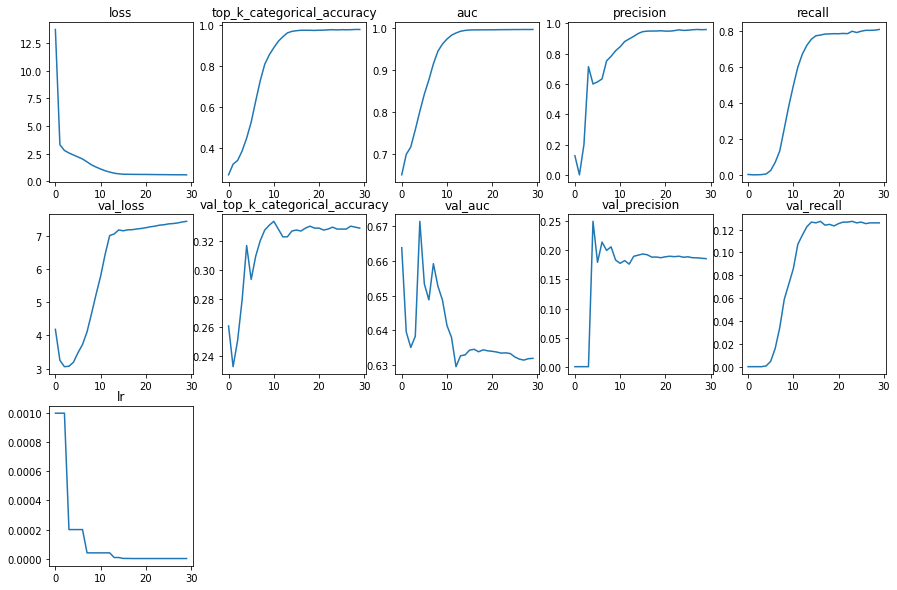
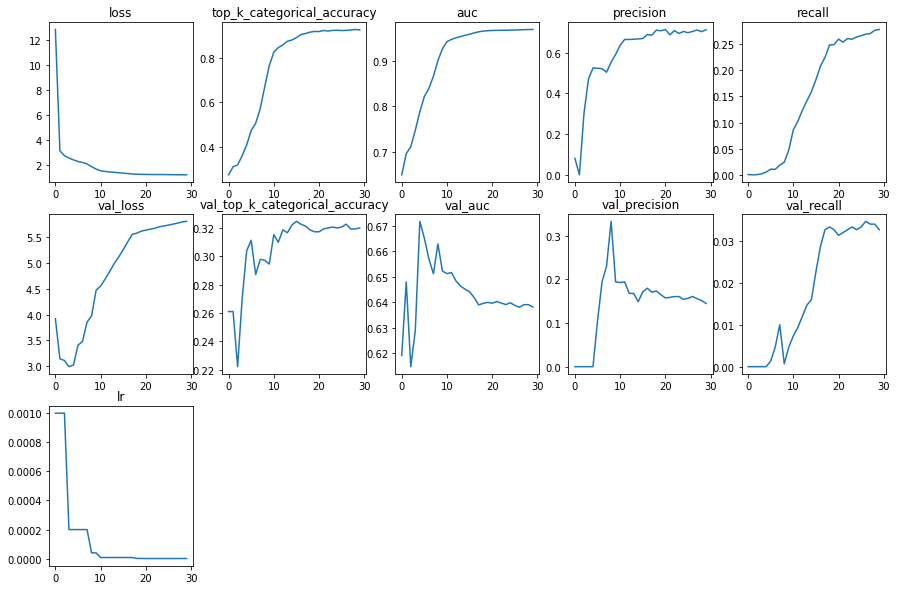
small corrections from previous commit with respect to auto-gen files

diff --git a/examples/audio/md/eeg_signal.md b/examples/audio/md/eeg_signal.md
@@ -54,11 +54,11 @@ First, lets install our dependencies:
 <div class="k-default-codeblock">
 ```
 Requirement already satisfied: gdown in /home/suvaditya/Programming/personal/oss/oss-ml/lib/python3.8/site-packages (4.5.3)
+Requirement already satisfied: tqdm in /home/suvaditya/Programming/personal/oss/oss-ml/lib/python3.8/site-packages (from gdown) (4.64.0)
+Requirement already satisfied: beautifulsoup4 in /home/suvaditya/Programming/personal/oss/oss-ml/lib/python3.8/site-packages (from gdown) (4.11.1)
 Requirement already satisfied: six in /home/suvaditya/Programming/personal/oss/oss-ml/lib/python3.8/site-packages (from gdown) (1.16.0)
 Requirement already satisfied: filelock in /home/suvaditya/Programming/personal/oss/oss-ml/lib/python3.8/site-packages (from gdown) (3.8.0)
-Requirement already satisfied: beautifulsoup4 in /home/suvaditya/Programming/personal/oss/oss-ml/lib/python3.8/site-packages (from gdown) (4.11.1)
 Requirement already satisfied: requests[socks] in /home/suvaditya/Programming/personal/oss/oss-ml/lib/python3.8/site-packages (from gdown) (2.27.1)
-Requirement already satisfied: tqdm in /home/suvaditya/Programming/personal/oss/oss-ml/lib/python3.8/site-packages (from gdown) (4.64.0)
 Requirement already satisfied: soupsieve>1.2 in /home/suvaditya/Programming/personal/oss/oss-ml/lib/python3.8/site-packages (from beautifulsoup4->gdown) (2.3.2.post1)
 Requirement already satisfied: certifi>=2017.4.17 in /home/suvaditya/Programming/personal/oss/oss-ml/lib/python3.8/site-packages (from requests[socks]->gdown) (2022.5.18.1)
 Requirement already satisfied: idna<4,>=2.5 in /home/suvaditya/Programming/personal/oss/oss-ml/lib/python3.8/site-packages (from requests[socks]->gdown) (3.3)
@@ -67,25 +67,25 @@ Requirement already satisfied: urllib3<1.27,>=1.21.1 in /home/suvaditya/Programm
 Requirement already satisfied: PySocks!=1.5.7,>=1.5.6 in /home/suvaditya/Programming/personal/oss/oss-ml/lib/python3.8/site-packages (from requests[socks]->gdown) (1.7.1)
 Requirement already satisfied: sklearn in /home/suvaditya/Programming/personal/oss/oss-ml/lib/python3.8/site-packages (0.0)
 Requirement already satisfied: scikit-learn in /home/suvaditya/Programming/personal/oss/oss-ml/lib/python3.8/site-packages (from sklearn) (1.1.2)
-Requirement already satisfied: scipy>=1.3.2 in /home/suvaditya/Programming/personal/oss/oss-ml/lib/python3.8/site-packages (from scikit-learn->sklearn) (1.9.0)
-Requirement already satisfied: numpy>=1.17.3 in /home/suvaditya/Programming/personal/oss/oss-ml/lib/python3.8/site-packages (from scikit-learn->sklearn) (1.23.2)
 Requirement already satisfied: threadpoolctl>=2.0.0 in /home/suvaditya/Programming/personal/oss/oss-ml/lib/python3.8/site-packages (from scikit-learn->sklearn) (3.1.0)
+Requirement already satisfied: numpy>=1.17.3 in /home/suvaditya/Programming/personal/oss/oss-ml/lib/python3.8/site-packages (from scikit-learn->sklearn) (1.23.2)
+Requirement already satisfied: scipy>=1.3.2 in /home/suvaditya/Programming/personal/oss/oss-ml/lib/python3.8/site-packages (from scikit-learn->sklearn) (1.9.0)
 Requirement already satisfied: joblib>=1.0.0 in /home/suvaditya/Programming/personal/oss/oss-ml/lib/python3.8/site-packages (from scikit-learn->sklearn) (1.1.0)
 Requirement already satisfied: pandas in /home/suvaditya/Programming/personal/oss/oss-ml/lib/python3.8/site-packages (1.4.3)
+Requirement already satisfied: python-dateutil>=2.8.1 in /home/suvaditya/Programming/personal/oss/oss-ml/lib/python3.8/site-packages (from pandas) (2.8.2)
 Requirement already satisfied: pytz>=2020.1 in /home/suvaditya/Programming/personal/oss/oss-ml/lib/python3.8/site-packages (from pandas) (2022.1)
 Requirement already satisfied: numpy>=1.18.5 in /home/suvaditya/Programming/personal/oss/oss-ml/lib/python3.8/site-packages (from pandas) (1.23.2)
-Requirement already satisfied: python-dateutil>=2.8.1 in /home/suvaditya/Programming/personal/oss/oss-ml/lib/python3.8/site-packages (from pandas) (2.8.2)
 Requirement already satisfied: six>=1.5 in /home/suvaditya/Programming/personal/oss/oss-ml/lib/python3.8/site-packages (from python-dateutil>=2.8.1->pandas) (1.16.0)
 Requirement already satisfied: numpy in /home/suvaditya/Programming/personal/oss/oss-ml/lib/python3.8/site-packages (1.23.2)
 Requirement already satisfied: matplotlib in /home/suvaditya/Programming/personal/oss/oss-ml/lib/python3.8/site-packages (3.5.2)
-Requirement already satisfied: python-dateutil>=2.7 in /home/suvaditya/Programming/personal/oss/oss-ml/lib/python3.8/site-packages (from matplotlib) (2.8.2)
-Requirement already satisfied: kiwisolver>=1.0.1 in /home/suvaditya/Programming/personal/oss/oss-ml/lib/python3.8/site-packages (from matplotlib) (1.4.3)
 Requirement already satisfied: pillow>=6.2.0 in /home/suvaditya/Programming/personal/oss/oss-ml/lib/python3.8/site-packages (from matplotlib) (9.1.1)
-Requirement already satisfied: pyparsing>=2.2.1 in /home/suvaditya/Programming/personal/oss/oss-ml/lib/python3.8/site-packages (from matplotlib) (3.0.9)
-Requirement already satisfied: fonttools>=4.22.0 in /home/suvaditya/Programming/personal/oss/oss-ml/lib/python3.8/site-packages (from matplotlib) (4.33.3)
-Requirement already satisfied: packaging>=20.0 in /home/suvaditya/Programming/personal/oss/oss-ml/lib/python3.8/site-packages (from matplotlib) (21.3)
 Requirement already satisfied: cycler>=0.10 in /home/suvaditya/Programming/personal/oss/oss-ml/lib/python3.8/site-packages (from matplotlib) (0.11.0)
+Requirement already satisfied: pyparsing>=2.2.1 in /home/suvaditya/Programming/personal/oss/oss-ml/lib/python3.8/site-packages (from matplotlib) (3.0.9)
+Requirement already satisfied: packaging>=20.0 in /home/suvaditya/Programming/personal/oss/oss-ml/lib/python3.8/site-packages (from matplotlib) (21.3)
+Requirement already satisfied: python-dateutil>=2.7 in /home/suvaditya/Programming/personal/oss/oss-ml/lib/python3.8/site-packages (from matplotlib) (2.8.2)
+Requirement already satisfied: fonttools>=4.22.0 in /home/suvaditya/Programming/personal/oss/oss-ml/lib/python3.8/site-packages (from matplotlib) (4.33.3)
 Requirement already satisfied: numpy>=1.17 in /home/suvaditya/Programming/personal/oss/oss-ml/lib/python3.8/site-packages (from matplotlib) (1.23.2)
+Requirement already satisfied: kiwisolver>=1.0.1 in /home/suvaditya/Programming/personal/oss/oss-ml/lib/python3.8/site-packages (from matplotlib) (1.4.3)
 Requirement already satisfied: six>=1.5 in /home/suvaditya/Programming/personal/oss/oss-ml/lib/python3.8/site-packages (from python-dateutil>=2.7->matplotlib) (1.16.0)
 
 ```
@@ -119,8 +119,8 @@ SHUFFLE_BUFFER_SIZE = BATCH_SIZE * 2
 ```
 Downloading...
 From: https://drive.google.com/uc?id=1V5B7Bt6aJm0UHbR7cRKBEK8jx7lYPVuX
-To: /home/suvaditya/Programming/personal/oss/keras-io/scripts/tmp_5852548/eeg-data.csv
-100%|████████████████████████████████████████| 106M/106M [00:06<00:00, 17.3MB/s]
+To: /home/suvaditya/Programming/personal/oss/keras-io/scripts/tmp_8705318/eeg-data.csv
+100%|████████████████████████████████████████| 106M/106M [00:05<00:00, 17.7MB/s]
 
 ```
 </div>
@@ -864,65 +864,65 @@ conv_model_history = conv_model.fit(
 <div class="k-default-codeblock">
 ```
 Epoch 1/30
-133/133 [==============================] - 13s 63ms/step - loss: 13.7334 - top_k_categorical_accuracy: 0.2678 - auc: 0.6498 - precision: 0.1259 - recall: 0.0020 - val_loss: 4.1816 - val_top_k_categorical_accuracy: 0.2610 - val_auc: 0.6638 - val_precision: 0.0000e+00 - val_recall: 0.0000e+00 - lr: 0.0010
+133/133 [==============================] - 11s 63ms/step - loss: 12.8625 - top_k_categorical_accuracy: 0.2747 - auc: 0.6495 - precision: 0.0806 - recall: 5.9102e-04 - val_loss: 3.9201 - val_top_k_categorical_accuracy: 0.2610 - val_auc: 0.6191 - val_precision: 0.0000e+00 - val_recall: 0.0000e+00 - lr: 0.0010
 Epoch 2/30
-133/133 [==============================] - 8s 58ms/step - loss: 3.3075 - top_k_categorical_accuracy: 0.3199 - auc: 0.6986 - precision: 0.0000e+00 - recall: 0.0000e+00 - val_loss: 3.2463 - val_top_k_categorical_accuracy: 0.2329 - val_auc: 0.6395 - val_precision: 0.0000e+00 - val_recall: 0.0000e+00 - lr: 0.0010
+133/133 [==============================] - 8s 58ms/step - loss: 3.1074 - top_k_categorical_accuracy: 0.3106 - auc: 0.6959 - precision: 0.0000e+00 - recall: 0.0000e+00 - val_loss: 3.1456 - val_top_k_categorical_accuracy: 0.2610 - val_auc: 0.6480 - val_precision: 0.0000e+00 - val_recall: 0.0000e+00 - lr: 0.0010
 Epoch 3/30
-133/133 [==============================] - 8s 58ms/step - loss: 2.7907 - top_k_categorical_accuracy: 0.3383 - auc: 0.7165 - precision: 0.2000 - recall: 1.1820e-04 - val_loss: 3.0565 - val_top_k_categorical_accuracy: 0.2510 - val_auc: 0.6351 - val_precision: 0.0000e+00 - val_recall: 0.0000e+00 - lr: 0.0010
+133/133 [==============================] - 8s 58ms/step - loss: 2.7097 - top_k_categorical_accuracy: 0.3190 - auc: 0.7112 - precision: 0.3000 - recall: 3.5461e-04 - val_loss: 3.1122 - val_top_k_categorical_accuracy: 0.2222 - val_auc: 0.6147 - val_precision: 0.0000e+00 - val_recall: 0.0000e+00 - lr: 0.0010
 Epoch 4/30
-133/133 [==============================] - 8s 57ms/step - loss: 2.5643 - top_k_categorical_accuracy: 0.3846 - auc: 0.7574 - precision: 0.7143 - recall: 0.0012 - val_loss: 3.0693 - val_top_k_categorical_accuracy: 0.2791 - val_auc: 0.6383 - val_precision: 0.0000e+00 - val_recall: 0.0000e+00 - lr: 2.0000e-04
+133/133 [==============================] - 8s 59ms/step - loss: 2.5204 - top_k_categorical_accuracy: 0.3603 - auc: 0.7473 - precision: 0.4706 - recall: 0.0019 - val_loss: 2.9930 - val_top_k_categorical_accuracy: 0.2697 - val_auc: 0.6289 - val_precision: 0.0000e+00 - val_recall: 0.0000e+00 - lr: 2.0000e-04
 Epoch 5/30
-133/133 [==============================] - 8s 58ms/step - loss: 2.3815 - top_k_categorical_accuracy: 0.4480 - auc: 0.8014 - precision: 0.6000 - recall: 0.0050 - val_loss: 3.1906 - val_top_k_categorical_accuracy: 0.3166 - val_auc: 0.6714 - val_precision: 0.2500 - val_recall: 6.6934e-04 - lr: 2.0000e-04
+133/133 [==============================] - 8s 59ms/step - loss: 2.3726 - top_k_categorical_accuracy: 0.4090 - auc: 0.7879 - precision: 0.5238 - recall: 0.0052 - val_loss: 3.0241 - val_top_k_categorical_accuracy: 0.3039 - val_auc: 0.6718 - val_precision: 0.0000e+00 - val_recall: 0.0000e+00 - lr: 2.0000e-04
 Epoch 6/30
-133/133 [==============================] - 8s 58ms/step - loss: 2.1999 - top_k_categorical_accuracy: 0.5260 - auc: 0.8424 - precision: 0.6138 - recall: 0.0242 - val_loss: 3.4796 - val_top_k_categorical_accuracy: 0.2932 - val_auc: 0.6534 - val_precision: 0.1795 - val_recall: 0.0047 - lr: 2.0000e-04
+133/133 [==============================] - 8s 60ms/step - loss: 2.2426 - top_k_categorical_accuracy: 0.4736 - auc: 0.8214 - precision: 0.5230 - recall: 0.0108 - val_loss: 3.4078 - val_top_k_categorical_accuracy: 0.3112 - val_auc: 0.6652 - val_precision: 0.1053 - val_recall: 0.0013 - lr: 2.0000e-04
 Epoch 7/30
-133/133 [==============================] - 8s 59ms/step - loss: 2.0204 - top_k_categorical_accuracy: 0.6294 - auc: 0.8766 - precision: 0.6336 - recall: 0.0695 - val_loss: 3.7237 - val_top_k_categorical_accuracy: 0.3092 - val_auc: 0.6488 - val_precision: 0.2143 - val_recall: 0.0161 - lr: 2.0000e-04
+133/133 [==============================] - 8s 59ms/step - loss: 2.1656 - top_k_categorical_accuracy: 0.5063 - auc: 0.8391 - precision: 0.5207 - recall: 0.0104 - val_loss: 3.4816 - val_top_k_categorical_accuracy: 0.2871 - val_auc: 0.6571 - val_precision: 0.1944 - val_recall: 0.0047 - lr: 2.0000e-04
 Epoch 8/30
-133/133 [==============================] - 8s 58ms/step - loss: 1.7604 - top_k_categorical_accuracy: 0.7287 - auc: 0.9148 - precision: 0.7522 - recall: 0.1327 - val_loss: 4.1081 - val_top_k_categorical_accuracy: 0.3199 - val_auc: 0.6592 - val_precision: 0.2000 - val_recall: 0.0341 - lr: 4.0000e-05
+133/133 [==============================] - 8s 59ms/step - loss: 2.0417 - top_k_categorical_accuracy: 0.5721 - auc: 0.8654 - precision: 0.5032 - recall: 0.0184 - val_loss: 3.8548 - val_top_k_categorical_accuracy: 0.2979 - val_auc: 0.6512 - val_precision: 0.2308 - val_recall: 0.0100 - lr: 2.0000e-04
 Epoch 9/30
-133/133 [==============================] - 8s 58ms/step - loss: 1.4884 - top_k_categorical_accuracy: 0.8099 - auc: 0.9450 - precision: 0.7830 - recall: 0.2572 - val_loss: 4.6625 - val_top_k_categorical_accuracy: 0.3273 - val_auc: 0.6527 - val_precision: 0.2061 - val_recall: 0.0589 - lr: 4.0000e-05
+133/133 [==============================] - 8s 59ms/step - loss: 1.8322 - top_k_categorical_accuracy: 0.6704 - auc: 0.9003 - precision: 0.5526 - recall: 0.0242 - val_loss: 3.9738 - val_top_k_categorical_accuracy: 0.2972 - val_auc: 0.6630 - val_precision: 0.3333 - val_recall: 6.6934e-04 - lr: 4.0000e-05
 Epoch 10/30
-133/133 [==============================] - 8s 58ms/step - loss: 1.2871 - top_k_categorical_accuracy: 0.8560 - auc: 0.9620 - precision: 0.8197 - recall: 0.3837 - val_loss: 5.2381 - val_top_k_categorical_accuracy: 0.3307 - val_auc: 0.6487 - val_precision: 0.1834 - val_recall: 0.0723 - lr: 4.0000e-05
+133/133 [==============================] - 8s 59ms/step - loss: 1.6351 - top_k_categorical_accuracy: 0.7643 - auc: 0.9261 - precision: 0.5908 - recall: 0.0473 - val_loss: 4.4714 - val_top_k_categorical_accuracy: 0.2945 - val_auc: 0.6523 - val_precision: 0.1944 - val_recall: 0.0047 - lr: 4.0000e-05
 Epoch 11/30
-133/133 [==============================] - 8s 58ms/step - loss: 1.1167 - top_k_categorical_accuracy: 0.8909 - auc: 0.9740 - precision: 0.8458 - recall: 0.4959 - val_loss: 5.7839 - val_top_k_categorical_accuracy: 0.3333 - val_auc: 0.6414 - val_precision: 0.1778 - val_recall: 0.0857 - lr: 4.0000e-05
+133/133 [==============================] - 8s 59ms/step - loss: 1.4918 - top_k_categorical_accuracy: 0.8257 - auc: 0.9418 - precision: 0.6353 - recall: 0.0861 - val_loss: 4.5518 - val_top_k_categorical_accuracy: 0.3153 - val_auc: 0.6513 - val_precision: 0.1930 - val_recall: 0.0074 - lr: 8.0000e-06
 Epoch 12/30
-133/133 [==============================] - 8s 59ms/step - loss: 0.9559 - top_k_categorical_accuracy: 0.9226 - auc: 0.9831 - precision: 0.8802 - recall: 0.6002 - val_loss: 6.4426 - val_top_k_categorical_accuracy: 0.3280 - val_auc: 0.6380 - val_precision: 0.1824 - val_recall: 0.1071 - lr: 4.0000e-05
+133/133 [==============================] - 8s 58ms/step - loss: 1.4434 - top_k_categorical_accuracy: 0.8461 - auc: 0.9467 - precision: 0.6641 - recall: 0.1024 - val_loss: 4.6866 - val_top_k_categorical_accuracy: 0.3099 - val_auc: 0.6517 - val_precision: 0.1944 - val_recall: 0.0094 - lr: 8.0000e-06
 Epoch 13/30
-133/133 [==============================] - 8s 59ms/step - loss: 0.8390 - top_k_categorical_accuracy: 0.9447 - auc: 0.9885 - precision: 0.8976 - recall: 0.6726 - val_loss: 7.0075 - val_top_k_categorical_accuracy: 0.3226 - val_auc: 0.6295 - val_precision: 0.1764 - val_recall: 0.1151 - lr: 4.0000e-05
+133/133 [==============================] - 8s 58ms/step - loss: 1.4034 - top_k_categorical_accuracy: 0.8583 - auc: 0.9503 - precision: 0.6641 - recall: 0.1234 - val_loss: 4.8320 - val_top_k_categorical_accuracy: 0.3186 - val_auc: 0.6484 - val_precision: 0.1682 - val_recall: 0.0120 - lr: 8.0000e-06
 Epoch 14/30
-133/133 [==============================] - 8s 59ms/step - loss: 0.7354 - top_k_categorical_accuracy: 0.9635 - auc: 0.9926 - precision: 0.9145 - recall: 0.7219 - val_loss: 7.0575 - val_top_k_categorical_accuracy: 0.3226 - val_auc: 0.6327 - val_precision: 0.1898 - val_recall: 0.1225 - lr: 8.0000e-06
+133/133 [==============================] - 8s 59ms/step - loss: 1.3726 - top_k_categorical_accuracy: 0.8743 - auc: 0.9530 - precision: 0.6652 - recall: 0.1416 - val_loss: 4.9853 - val_top_k_categorical_accuracy: 0.3166 - val_auc: 0.6464 - val_precision: 0.1679 - val_recall: 0.0147 - lr: 8.0000e-06
 Epoch 15/30
-133/133 [==============================] - 8s 59ms/step - loss: 0.6792 - top_k_categorical_accuracy: 0.9713 - auc: 0.9946 - precision: 0.9336 - recall: 0.7558 - val_loss: 7.1773 - val_top_k_categorical_accuracy: 0.3266 - val_auc: 0.6329 - val_precision: 0.1919 - val_recall: 0.1265 - lr: 8.0000e-06
+133/133 [==============================] - 8s 59ms/step - loss: 1.3389 - top_k_categorical_accuracy: 0.8800 - auc: 0.9556 - precision: 0.6668 - recall: 0.1587 - val_loss: 5.1136 - val_top_k_categorical_accuracy: 0.3220 - val_auc: 0.6452 - val_precision: 0.1491 - val_recall: 0.0161 - lr: 8.0000e-06
 Epoch 16/30
-133/133 [==============================] - 8s 59ms/step - loss: 0.6428 - top_k_categorical_accuracy: 0.9743 - auc: 0.9957 - precision: 0.9456 - recall: 0.7749 - val_loss: 7.1511 - val_top_k_categorical_accuracy: 0.3273 - val_auc: 0.6343 - val_precision: 0.1938 - val_recall: 0.1258 - lr: 1.6000e-06
+133/133 [==============================] - 8s 59ms/step - loss: 1.3102 - top_k_categorical_accuracy: 0.8909 - auc: 0.9581 - precision: 0.6685 - recall: 0.1819 - val_loss: 5.2552 - val_top_k_categorical_accuracy: 0.3246 - val_auc: 0.6442 - val_precision: 0.1717 - val_recall: 0.0228 - lr: 8.0000e-06
 Epoch 17/30
-133/133 [==============================] - 8s 59ms/step - loss: 0.6380 - top_k_categorical_accuracy: 0.9766 - auc: 0.9958 - precision: 0.9490 - recall: 0.7786 - val_loss: 7.1815 - val_top_k_categorical_accuracy: 0.3266 - val_auc: 0.6345 - val_precision: 0.1925 - val_recall: 0.1272 - lr: 1.6000e-06
+133/133 [==============================] - 8s 60ms/step - loss: 1.2734 - top_k_categorical_accuracy: 0.9048 - auc: 0.9609 - precision: 0.6883 - recall: 0.2078 - val_loss: 5.4066 - val_top_k_categorical_accuracy: 0.3226 - val_auc: 0.6419 - val_precision: 0.1799 - val_recall: 0.0288 - lr: 8.0000e-06
 Epoch 18/30
-133/133 [==============================] - 8s 58ms/step - loss: 0.6313 - top_k_categorical_accuracy: 0.9766 - auc: 0.9959 - precision: 0.9499 - recall: 0.7845 - val_loss: 7.1852 - val_top_k_categorical_accuracy: 0.3286 - val_auc: 0.6338 - val_precision: 0.1884 - val_recall: 0.1238 - lr: 1.0000e-06
+133/133 [==============================] - 8s 59ms/step - loss: 1.2415 - top_k_categorical_accuracy: 0.9092 - auc: 0.9633 - precision: 0.6850 - recall: 0.2247 - val_loss: 5.5507 - val_top_k_categorical_accuracy: 0.3213 - val_auc: 0.6390 - val_precision: 0.1707 - val_recall: 0.0328 - lr: 8.0000e-06
 Epoch 19/30
-133/133 [==============================] - 8s 58ms/step - loss: 0.6276 - top_k_categorical_accuracy: 0.9765 - auc: 0.9960 - precision: 0.9499 - recall: 0.7851 - val_loss: 7.2069 - val_top_k_categorical_accuracy: 0.3300 - val_auc: 0.6344 - val_precision: 0.1886 - val_recall: 0.1245 - lr: 1.0000e-06
+133/133 [==============================] - 8s 59ms/step - loss: 1.2207 - top_k_categorical_accuracy: 0.9155 - auc: 0.9650 - precision: 0.7097 - recall: 0.2482 - val_loss: 5.5749 - val_top_k_categorical_accuracy: 0.3186 - val_auc: 0.6396 - val_precision: 0.1736 - val_recall: 0.0335 - lr: 1.6000e-06
 Epoch 20/30
-133/133 [==============================] - 8s 59ms/step - loss: 0.6243 - top_k_categorical_accuracy: 0.9758 - auc: 0.9961 - precision: 0.9515 - recall: 0.7865 - val_loss: 7.2225 - val_top_k_categorical_accuracy: 0.3286 - val_auc: 0.6341 - val_precision: 0.1874 - val_recall: 0.1232 - lr: 1.0000e-06
+133/133 [==============================] - 8s 62ms/step - loss: 1.2110 - top_k_categorical_accuracy: 0.9186 - auc: 0.9657 - precision: 0.7066 - recall: 0.2491 - val_loss: 5.6133 - val_top_k_categorical_accuracy: 0.3173 - val_auc: 0.6400 - val_precision: 0.1650 - val_recall: 0.0328 - lr: 1.6000e-06
 Epoch 21/30
-133/133 [==============================] - 8s 58ms/step - loss: 0.6236 - top_k_categorical_accuracy: 0.9770 - auc: 0.9961 - precision: 0.9492 - recall: 0.7861 - val_loss: 7.2446 - val_top_k_categorical_accuracy: 0.3286 - val_auc: 0.6339 - val_precision: 0.1891 - val_recall: 0.1252 - lr: 1.0000e-06
+133/133 [==============================] - 8s 59ms/step - loss: 1.2038 - top_k_categorical_accuracy: 0.9181 - auc: 0.9663 - precision: 0.7131 - recall: 0.2595 - val_loss: 5.6321 - val_top_k_categorical_accuracy: 0.3173 - val_auc: 0.6397 - val_precision: 0.1577 - val_recall: 0.0315 - lr: 1.0000e-06
 Epoch 22/30
-133/133 [==============================] - 8s 59ms/step - loss: 0.6174 - top_k_categorical_accuracy: 0.9772 - auc: 0.9963 - precision: 0.9493 - recall: 0.7878 - val_loss: 7.2727 - val_top_k_categorical_accuracy: 0.3273 - val_auc: 0.6337 - val_precision: 0.1899 - val_recall: 0.1265 - lr: 1.0000e-06
+133/133 [==============================] - 8s 59ms/step - loss: 1.1998 - top_k_categorical_accuracy: 0.9229 - auc: 0.9666 - precision: 0.6866 - recall: 0.2538 - val_loss: 5.6516 - val_top_k_categorical_accuracy: 0.3193 - val_auc: 0.6403 - val_precision: 0.1589 - val_recall: 0.0321 - lr: 1.0000e-06
 Epoch 23/30
-133/133 [==============================] - 8s 59ms/step - loss: 0.6129 - top_k_categorical_accuracy: 0.9786 - auc: 0.9964 - precision: 0.9523 - recall: 0.7866 - val_loss: 7.2914 - val_top_k_categorical_accuracy: 0.3280 - val_auc: 0.6334 - val_precision: 0.1892 - val_recall: 0.1265 - lr: 1.0000e-06
+133/133 [==============================] - 8s 60ms/step - loss: 1.1948 - top_k_categorical_accuracy: 0.9206 - auc: 0.9668 - precision: 0.7076 - recall: 0.2606 - val_loss: 5.6690 - val_top_k_categorical_accuracy: 0.3199 - val_auc: 0.6397 - val_precision: 0.1607 - val_recall: 0.0328 - lr: 1.0000e-06
 Epoch 24/30
-133/133 [==============================] - 8s 59ms/step - loss: 0.6074 - top_k_categorical_accuracy: 0.9794 - auc: 0.9965 - precision: 0.9580 - recall: 0.8000 - val_loss: 7.3214 - val_top_k_categorical_accuracy: 0.3293 - val_auc: 0.6335 - val_precision: 0.1900 - val_recall: 0.1272 - lr: 1.0000e-06
+133/133 [==============================] - 7s 51ms/step - loss: 1.1970 - top_k_categorical_accuracy: 0.9233 - auc: 0.9666 - precision: 0.6933 - recall: 0.2595 - val_loss: 5.6968 - val_top_k_categorical_accuracy: 0.3206 - val_auc: 0.6391 - val_precision: 0.1608 - val_recall: 0.0335 - lr: 1.0000e-06
 Epoch 25/30
-133/133 [==============================] - 8s 59ms/step - loss: 0.6064 - top_k_categorical_accuracy: 0.9784 - auc: 0.9965 - precision: 0.9538 - recall: 0.7929 - val_loss: 7.3337 - val_top_k_categorical_accuracy: 0.3280 - val_auc: 0.6333 - val_precision: 0.1882 - val_recall: 0.1258 - lr: 1.0000e-06
+133/133 [==============================] - 8s 60ms/step - loss: 1.1919 - top_k_categorical_accuracy: 0.9240 - auc: 0.9670 - precision: 0.7035 - recall: 0.2636 - val_loss: 5.7125 - val_top_k_categorical_accuracy: 0.3199 - val_auc: 0.6398 - val_precision: 0.1546 - val_recall: 0.0328 - lr: 1.0000e-06
 Epoch 26/30
-133/133 [==============================] - 8s 59ms/step - loss: 0.6006 - top_k_categorical_accuracy: 0.9794 - auc: 0.9967 - precision: 0.9554 - recall: 0.8002 - val_loss: 7.3597 - val_top_k_categorical_accuracy: 0.3280 - val_auc: 0.6323 - val_precision: 0.1890 - val_recall: 0.1265 - lr: 1.0000e-06
+133/133 [==============================] - 8s 59ms/step - loss: 1.1896 - top_k_categorical_accuracy: 0.9227 - auc: 0.9671 - precision: 0.6973 - recall: 0.2661 - val_loss: 5.7305 - val_top_k_categorical_accuracy: 0.3206 - val_auc: 0.6388 - val_precision: 0.1567 - val_recall: 0.0335 - lr: 1.0000e-06
 Epoch 27/30
-133/133 [==============================] - 8s 58ms/step - loss: 0.5970 - top_k_categorical_accuracy: 0.9790 - auc: 0.9966 - precision: 0.9582 - recall: 0.8051 - val_loss: 7.3698 - val_top_k_categorical_accuracy: 0.3280 - val_auc: 0.6317 - val_precision: 0.1874 - val_recall: 0.1252 - lr: 1.0000e-06
+133/133 [==============================] - 8s 59ms/step - loss: 1.1820 - top_k_categorical_accuracy: 0.9234 - auc: 0.9677 - precision: 0.7033 - recall: 0.2690 - val_loss: 5.7487 - val_top_k_categorical_accuracy: 0.3226 - val_auc: 0.6381 - val_precision: 0.1610 - val_recall: 0.0348 - lr: 1.0000e-06
 Epoch 28/30
-133/133 [==============================] - 8s 59ms/step - loss: 0.5937 - top_k_categorical_accuracy: 0.9793 - auc: 0.9968 - precision: 0.9601 - recall: 0.8051 - val_loss: 7.3871 - val_top_k_categorical_accuracy: 0.3300 - val_auc: 0.6314 - val_precision: 0.1873 - val_recall: 0.1258 - lr: 1.0000e-06
+133/133 [==============================] - 8s 59ms/step - loss: 1.1780 - top_k_categorical_accuracy: 0.9251 - auc: 0.9680 - precision: 0.7105 - recall: 0.2701 - val_loss: 5.7676 - val_top_k_categorical_accuracy: 0.3193 - val_auc: 0.6391 - val_precision: 0.1560 - val_recall: 0.0341 - lr: 1.0000e-06
 Epoch 29/30
-133/133 [==============================] - 8s 59ms/step - loss: 0.5920 - top_k_categorical_accuracy: 0.9805 - auc: 0.9968 - precision: 0.9585 - recall: 0.8061 - val_loss: 7.4167 - val_top_k_categorical_accuracy: 0.3293 - val_auc: 0.6318 - val_precision: 0.1865 - val_recall: 0.1258 - lr: 1.0000e-06
+133/133 [==============================] - 8s 58ms/step - loss: 1.1737 - top_k_categorical_accuracy: 0.9275 - auc: 0.9684 - precision: 0.7024 - recall: 0.2765 - val_loss: 5.7901 - val_top_k_categorical_accuracy: 0.3193 - val_auc: 0.6391 - val_precision: 0.1518 - val_recall: 0.0341 - lr: 1.0000e-06
 Epoch 30/30
-133/133 [==============================] - 8s 59ms/step - loss: 0.5898 - top_k_categorical_accuracy: 0.9805 - auc: 0.9969 - precision: 0.9597 - recall: 0.8099 - val_loss: 7.4371 - val_top_k_categorical_accuracy: 0.3286 - val_auc: 0.6319 - val_precision: 0.1858 - val_recall: 0.1258 - lr: 1.0000e-06
+133/133 [==============================] - 8s 58ms/step - loss: 1.1725 - top_k_categorical_accuracy: 0.9252 - auc: 0.9685 - precision: 0.7119 - recall: 0.2780 - val_loss: 5.8028 - val_top_k_categorical_accuracy: 0.3199 - val_auc: 0.6382 - val_precision: 0.1450 - val_recall: 0.0328 - lr: 1.0000e-06
 
 ```
 </div>
@@ -993,12 +993,12 @@ view_evaluated_eeg_plots(conv_model)
 
 <div class="k-default-codeblock">
 ```
-24/24 [==============================] - 0s 9ms/step - loss: 7.4371 - top_k_categorical_accuracy: 0.3286 - auc: 0.6319 - precision: 0.1858 - recall: 0.1258
-Loss : 7.437110424041748
-Top 3 Categorical Accuracy : 0.3286479115486145
-Area under the Curve (ROC) : 0.6319202780723572
-Precision : 0.18577075004577637
-Recall : 0.12583668529987335
+24/24 [==============================] - 0s 9ms/step - loss: 5.8028 - top_k_categorical_accuracy: 0.3199 - auc: 0.6382 - precision: 0.1450 - recall: 0.0328
+Loss : 5.802786827087402
+Top 3 Categorical Accuracy : 0.31994643807411194
+Area under the Curve (ROC) : 0.6381803750991821
+Precision : 0.14497041702270508
+Recall : 0.032797858119010925
 
 ```
 </div>
